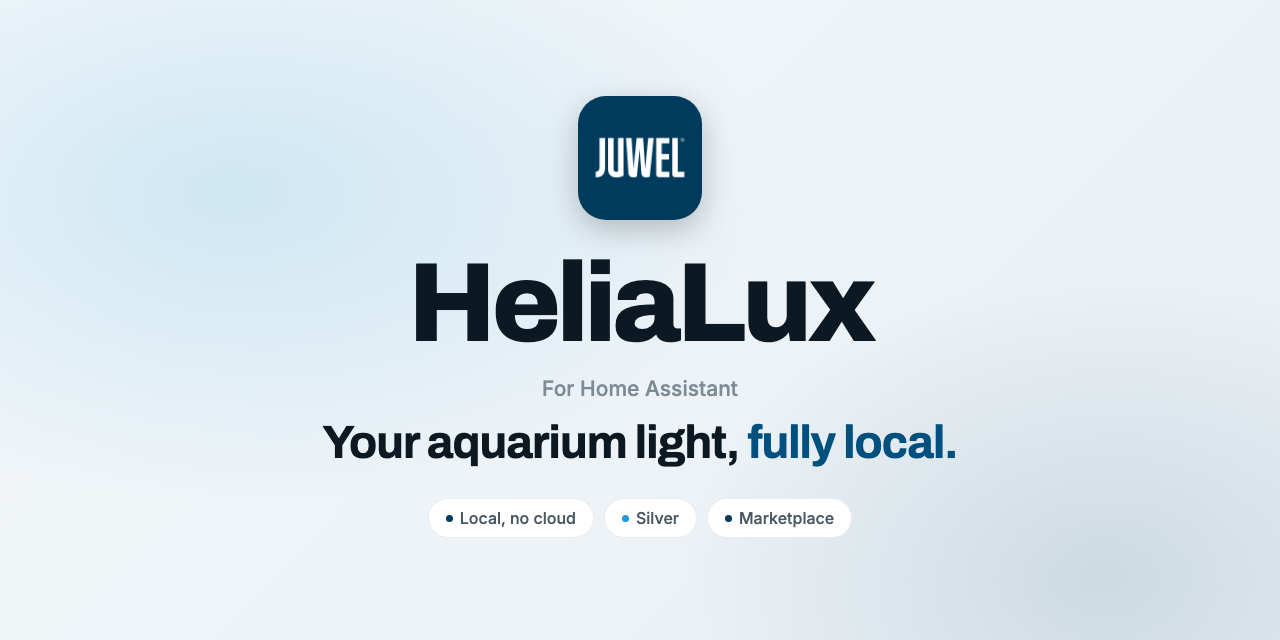
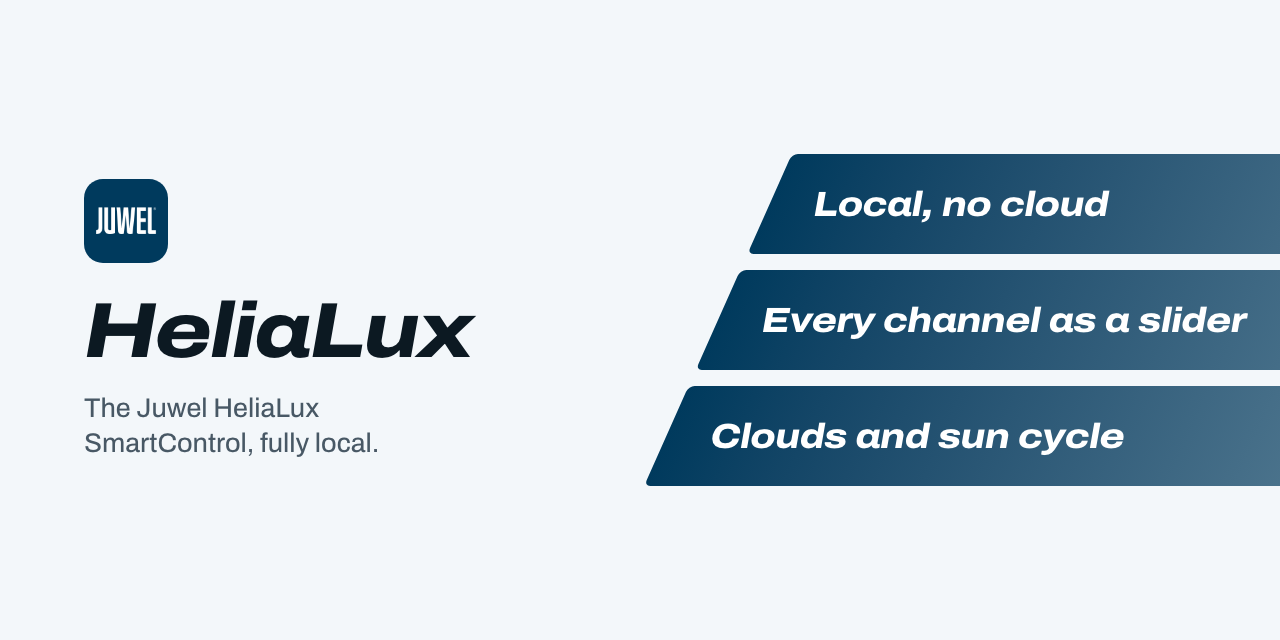
README and project page in the v2 design
Title banner with the lanes, Install and Set up as one Get started, shared
footer. The page loads theme v2 (Archivo from sh1ft-w.github.io), hero left
with the three key facts on the lanes.

Claude-Session: https://claude.ai/code/session_01TLmTtZLAvnS1BJ3w9tzxXq

diff --git a/docs/index.html b/docs/index.html
@@ -13,21 +13,18 @@
 <meta property="og:description" content="Local control for the Juwel HeliaLux SmartControl aquarium light. Robust, complete, no cloud.">
 <meta property="og:image" content="https://sh1ft-w.github.io/helialux/images/readme-title-social.png">
 <link rel="icon" href="logo.png">
-<link rel="preconnect" href="https://fonts.googleapis.com">
-<link rel="preconnect" href="https://fonts.gstatic.com" crossorigin>
-<link href="https://fonts.googleapis.com/css2?family=Archivo:wght@600;700;800;900&family=Inter:wght@400;500;600&family=JetBrains+Mono:wght@400;500&display=swap" rel="stylesheet">
-<!-- Shared SH1FT-W design (tokens, glass navigation, light/dark, DE/EN, reveal) -->
-<link rel="stylesheet" href="https://sh1ft-w.github.io/theme/v1/theme.css">
-<script src="https://sh1ft-w.github.io/theme/v1/theme.js"></script>
+<!-- Shared SH1FT-W design, version 2 (tokens, Archivo, navigation, light/dark, DE/EN, the lanes) -->
+<link rel="stylesheet" href="https://sh1ft-w.github.io/theme/v2/theme.css">
+<script src="https://sh1ft-w.github.io/theme/v2/theme.js"></script>
 <style>
 /* HeliaLux-Palette: kühles Wasserweiß bei Tag, tiefes Becken bei Nacht, Akzent in Juwel-Blau #003a5d */
 :root {
   --accent: #003a5d; --accent-ink: #00507f; --on-accent: #ffffff;
-  --sea: #003a5d; --sea-tint: rgba(0,90,140,0.10); --sea-glow: rgba(0,58,93,0.34); --aqua: #1C9BD6;
+  --sea: #003a5d; --sea-tint: rgba(0,90,140,0.10); --aqua: #1C9BD6;
   --ch-w: #8FA3B1; --ch-b: #2F7FD8; --ch-g: #2FA36A; --ch-r: #E0584A;
-  --font: "Inter", -apple-system, BlinkMacSystemFont, system-ui, sans-serif;
-  --display: "Archivo", "Inter", -apple-system, BlinkMacSystemFont, system-ui, sans-serif;
-  --mono: "JetBrains Mono", ui-monospace, "SF Mono", Menlo, monospace;
+  --font: "Archivo", -apple-system, BlinkMacSystemFont, system-ui, sans-serif;
+  --display: "Archivo", -apple-system, BlinkMacSystemFont, system-ui, sans-serif;
+  --mono: ui-monospace, "SF Mono", Menlo, monospace;
   --bg: #F3F7FA; --bg-2: #E8EFF4; --card: #FFFFFF; --card-2: #F1F5F8;
   --ink: #0C1922; --ink-2: #485865; --ink-3: rgba(12,25,34,0.52);
   --line: rgba(10,40,60,0.11); --chip: rgba(10,50,80,0.06);
@@ -38,7 +35,7 @@
 }
 @media (prefers-color-scheme: dark) { :root:not([data-theme="light"]) {
   --accent: #5DB9E8; --accent-ink: #7CC8EE; --on-accent: #04121B;
-  --sea: #5DB9E8; --sea-tint: rgba(93,185,232,0.14); --sea-glow: rgba(93,185,232,0.30);
+  --sea: #5DB9E8; --sea-tint: rgba(93,185,232,0.14);
   --ch-w: #DCE6EC;
   --bg: #06111A; --bg-2: #0A1822; --card: #0F202C; --card-2: #152A38;
   --ink: #EAF2F7; --ink-2: rgba(214,228,238,0.84); --ink-3: rgba(214,228,238,0.52);
@@ -48,7 +45,7 @@
 } }
 :root[data-theme="dark"] {
   --accent: #5DB9E8; --accent-ink: #7CC8EE; --on-accent: #04121B;
-  --sea: #5DB9E8; --sea-tint: rgba(93,185,232,0.14); --sea-glow: rgba(93,185,232,0.30);
+  --sea: #5DB9E8; --sea-tint: rgba(93,185,232,0.14);
   --ch-w: #DCE6EC;
   --bg: #06111A; --bg-2: #0A1822; --card: #0F202C; --card-2: #152A38;
   --ink: #EAF2F7; --ink-2: rgba(214,228,238,0.84); --ink-3: rgba(214,228,238,0.52);
@@ -74,7 +71,7 @@ code, .k { font-family: var(--mono); font-variant-numeric: tabular-nums; }
 .btn {
   display: inline-flex; align-items: center; justify-content: center; gap: 8px; height: 48px; padding: 0 24px; border-radius: 999px;
   font-family: inherit; font-size: 15px; font-weight: 600; line-height: 1; background: var(--sea); color: var(--on-accent); border: 0; cursor: pointer;
-  box-shadow: 0 12px 28px -12px var(--sea-glow); transition: transform .2s ease, filter .2s ease;
+  transition: transform .2s ease, filter .2s ease;
 }
 .btn:hover { text-decoration: none; filter: brightness(1.1); transform: translateY(-1px); }
 .btn.ghost { background: var(--card); color: var(--ink); box-shadow: var(--shadow); }
@@ -98,9 +95,6 @@ section.tint { background: var(--bg-2); }
 
 /* Hero */
 .hero { padding: clamp(56px, 9vw, 112px) 0 clamp(64px, 8vw, 104px); text-align: center; overflow: hidden; }
-.hero .glow { position: absolute; inset: -20% -10% auto; height: 90%; pointer-events: none;
-  background: radial-gradient(40% 36% at 30% 30%, rgba(28,155,214,0.20), transparent 70%), radial-gradient(36% 34% at 72% 24%, rgba(0,58,93,0.16), transparent 70%);
-  filter: blur(50px); }
 .hero .wrap { position: relative; }
 .hero .lead { max-width: 660px; margin-left: auto; margin-right: auto; }
 .cta { display: flex; flex-wrap: wrap; gap: 12px; justify-content: center; margin-top: 34px; }
@@ -108,9 +102,6 @@ section.tint { background: var(--bg-2); }
 .pill { display: inline-flex; align-items: center; gap: 6px; padding: 5px 12px; border-radius: 999px; background: var(--card); box-shadow: var(--shadow); font-weight: 600; color: var(--ink-2); font-size: 13px; }
 .pill i { width: 7px; height: 7px; border-radius: 50%; background: var(--aqua); display: inline-block; }
 
-/* Bühne: das README-Titelbild */
-.stage { position: relative; margin: clamp(48px, 7vw, 84px) auto 0; max-width: 1100px; }
-.stage .photo { display: block; width: 100%; height: auto; aspect-ratio: 2 / 1; border-radius: var(--radius-lg); box-shadow: var(--shadow-lg); }
 
 /* Bento: Gerade neu */
 .bento { display: grid; grid-template-columns: repeat(12, 1fr); gap: 16px; }
@@ -239,6 +230,39 @@ footer .fine { flex-basis: 100%; line-height: 1.6; }
   .tbl td { border: 0; padding: 2px 0; }
   .tbl td:first-child { white-space: normal; }
 }
+
+/* ---- theme v2 ---- */
+:root { --display: var(--font); --lane-a: #003a5d; --lane-b: #1C9BD6; --radius: 20px; --radius-lg: 28px; --max: 1200px; }
+/* Juwel blue is too dark for the night background: lighter lanes there */
+@media (prefers-color-scheme: dark) { :root:not([data-theme="light"]) { --lane-a: #0A6A9E; --lane-b: #5DB9E8; } }
+:root[data-theme="dark"] { --lane-a: #0A6A9E; --lane-b: #5DB9E8; }
+body { font-family: var(--font); }
+h1 { font-size: clamp(44px, 6vw, 84px); line-height: 1; font-weight: 800; font-stretch: 118%; font-style: italic; letter-spacing: -0.025em; }
+h2 { font-size: clamp(30px, 3.8vw, 48px); line-height: 1.08; font-weight: 750; font-stretch: 112%; letter-spacing: -0.02em; }
+h3 { font-stretch: 106%; }
+h1 em, h2 em { color: inherit !important; font-style: inherit; }
+.center { text-align: left; } .center .lead { margin-left: 0; margin-right: 0; }
+.head { max-width: 50em; }
+.flow { margin: 0; }
+.finale h2 { font-size: clamp(34px, 4.6vw, 60px); }
+.eyebrow { text-transform: none; letter-spacing: 0; font-size: 16px; font-weight: 650; margin-bottom: 12px; }
+.eyebrow::before { display: none; }
+.cap { text-align: left; }
+.btn { border-radius: 12px; box-shadow: none; }
+.btn.ghost { background: var(--chip); box-shadow: none; }
+.pill { box-shadow: none; background: var(--chip); border-radius: 8px; }
+.b, .tile, .panel, .prof, .tbl, .faq details, .flow .lane { box-shadow: none; border: 1px solid var(--line); }
+.b .tag, .tg, .tbl thead th { text-transform: none; letter-spacing: 0; font-size: 13px; }
+.b .tag, .tg, .days > span { border-radius: 6px; }
+.tile .ico { border-radius: 10px; }
+.hero { text-align: left; padding: clamp(48px, 7vw, 96px) 0 clamp(56px, 7vw, 96px); overflow: hidden; }
+.hero .wrap { display: grid; grid-template-columns: minmax(0, 1.15fr) minmax(0, 1fr); gap: clamp(24px, 4vw, 64px); align-items: center; }
+.hero .mark { width: 64px; height: 64px; border-radius: 15px; margin-bottom: 26px; }
+.hero .lead { margin-left: 0; max-width: 34em; }
+.hero .cta, .hero .meta { justify-content: flex-start; }
+.hero .s-lanes { margin: 0 calc(-1 * var(--gutter) - 14vw) 0 clamp(32px, 4vw, 56px); }
+.s-track b { color: #fff; font: italic 800 clamp(20px, 2.5vw, 34px)/1 var(--font); font-stretch: 116%; letter-spacing: -0.015em; white-space: nowrap; }
+@media (max-width: 900px) { .hero .wrap { grid-template-columns: 1fr; } .hero .s-lanes { margin: 8px calc(-1 * var(--gutter) - 8vw) 0 44px; } }
 </style>
 </head>
 <body>
@@ -264,25 +288,24 @@ footer .fine { flex-basis: 100%; line-height: 1.6; }
 </div>
 
 <section class="hero" id="top">
-  <div class="glow" aria-hidden="true"></div>
   <div class="wrap">
-    <p class="eyebrow reveal"><span class="en">Juwel aquarium light in Home Assistant</span><span class="de">Juwel-Aquarienlicht in Home Assistant</span></p>
-    <h1 class="reveal d1"><span class="en">Your aquarium light,<br><em>fully local.</em></span><span class="de">Dein Aquarienlicht,<br><em>ganz lokal.</em></span></h1>
-    <p class="lead reveal d2"><span class="en">HeliaLux talks to the Juwel HeliaLux SmartControl over its own web server: <strong>every channel as a slider, real transitions, profiles, clouds and a sun cycle</strong>, and it keeps the colour Home Assistant set. Robust, complete, no cloud.</span><span class="de">HeliaLux spricht mit der Juwel HeliaLux SmartControl über ihren eigenen Webserver: <strong>jeder Kanal als Schieberegler, echte Übergänge, Profile, Wolken und Sonnenverlauf</strong>, und sie hält die Farbe, die Home Assistant eingestellt hat. Robust, vollständig, ohne Cloud.</span></p>
-    <div class="cta reveal d3">
-      <a class="btn" href="#install"><span class="en">Install from the Marketplace</span><span class="de">Über den Marketplace installieren</span></a>
-      <a class="btn ghost" href="https://github.com/SH1FT-W/helialux#readme"><span class="en">Read the README</span><span class="de">Zur Anleitung</span></a>
+    <div>
+      <img class="mark" src="logo.png" alt="" width="64" height="64">
+      <h1><span class="en">Your aquarium light, fully local.</span><span class="de">Dein Aquarienlicht, ganz lokal.</span></h1>
+      <p class="lead reveal d2"><span class="en">HeliaLux talks to the Juwel HeliaLux SmartControl over its own web server: <strong>every channel as a slider, real transitions, profiles, clouds and a sun cycle</strong>, and it keeps the colour Home Assistant set. Robust, complete, no cloud.</span><span class="de">HeliaLux spricht mit der Juwel HeliaLux SmartControl über ihren eigenen Webserver: <strong>jeder Kanal als Schieberegler, echte Übergänge, Profile, Wolken und Sonnenverlauf</strong>, und sie hält die Farbe, die Home Assistant eingestellt hat. Robust, vollständig, ohne Cloud.</span></p>
+      <div class="cta reveal d3">
+        <a class="btn" href="#install"><span class="en">Install from the Marketplace</span><span class="de">Über den Marketplace installieren</span></a>
+        <a class="btn ghost" href="https://github.com/SH1FT-W/helialux#readme"><span class="en">Read the README</span><span class="de">Zur Anleitung</span></a>
+      </div>
+      <p class="meta reveal d3">
+        <span class="pill"><i></i><span id="hl-version">Version 26.11.3</span></span>
+        <span class="en">Home Assistant 2026.9 or newer &middot; English and German &middot; Apache 2.0</span><span class="de">Home Assistant 2026.9 oder neuer &middot; Deutsch und Englisch &middot; Apache 2.0</span>
+      </p>
     </div>
-    <p class="meta reveal d3">
-      <span class="pill"><i></i><span id="hl-version">Version 26.11.3</span></span>
-      <span class="en">Home Assistant 2026.9 or newer &middot; English and German &middot; Apache 2.0</span><span class="de">Home Assistant 2026.9 oder neuer &middot; Deutsch und Englisch &middot; Apache 2.0</span>
-    </p>
-
-    <div class="stage reveal d3">
-      <picture>
-        <source media="(prefers-color-scheme: dark)" srcset="images/readme-title-dark.webp">
-        <img class="photo" src="images/readme-title-light.webp" width="2560" height="1280" alt="HeliaLux: Your aquarium light, fully local.">
-      </picture>
+    <div class="s-lanes" aria-hidden="true">
+      <div class="s-lane"><div class="s-track"><b><span class="en">Local, no cloud</span><span class="de">Lokal, ohne Cloud</span></b></div></div>
+      <div class="s-lane"><div class="s-track"><b><span class="en">Every channel as a slider</span><span class="de">Jeder Kanal als Regler</span></b></div></div>
+      <div class="s-lane"><div class="s-track"><b><span class="en">Clouds and sun cycle</span><span class="de">Wolken und Sonnenverlauf</span></b></div></div>
     </div>
   </div>
 </section>

diff --git a/README.md b/README.md
@@ -2,14 +2,14 @@
 
 <picture>
   <source media="(prefers-color-scheme: dark)" srcset="docs/images/readme-title-dark.webp" />
-  <img src="docs/images/readme-title-light.webp" alt="HeliaLux: Your aquarium light, fully local." />
+  <img src="docs/images/readme-title-light.webp" alt="HeliaLux: The Juwel HeliaLux SmartControl, fully local. Local, no cloud. Every channel as a slider. Clouds and sun cycle." />
 </picture>
 
 [![Version](https://img.shields.io/badge/dynamic/json?url=https%3A%2F%2Fraw.githubusercontent.com%2FSH1FT-W%2Fhelialux%2Fmain%2Fcustom_components%2Fhelialux%2Fmanifest.json&query=%24.version&label=version&style=flat-square&color=003A5D&labelColor=111111)](https://github.com/SH1FT-W/helialux/releases/latest)
 [![Home Assistant](https://img.shields.io/badge/Home%20Assistant-2026.9%2B-003A5D?style=flat-square&labelColor=111111&logo=homeassistant&logoColor=white)](https://www.home-assistant.io)
 [![Marketplace](https://img.shields.io/badge/Marketplace-default-003A5D?style=flat-square&labelColor=111111)](https://hacs.xyz)
 
-<a href="https://sh1ft-w.github.io/helialux"><b>Website</b></a>&emsp;<a href="#install">Install</a>&emsp;<a href="#set-up">Set up</a>&emsp;<a href="#entities">Entities</a>&emsp;<a href="#moving-over">Moving over</a>&emsp;<a href="CHANGELOG.md">Changelog</a>
+<a href="https://sh1ft-w.github.io/helialux"><b>Website</b></a>&emsp;<a href="#get-started">Get started</a>&emsp;<a href="#entities">Entities</a>&emsp;<a href="#moving-over">Moving over</a>&emsp;<a href="CHANGELOG.md">Changelog</a>
 
 </div>
 
@@ -19,7 +19,7 @@ Your Juwel aquarium light in Home Assistant: **every channel as a slider, real t
 
 It needs a **HeliaLux SmartControl**; Juwel lamps without it have no web server and do not work. HeliaLux has its own domain `helialux` and runs next to [MrSleeps' Juwel HeliaLux integration](https://github.com/MrSleeps/Juwel-HeliaLux-Home-Assistant-Custom-Component). Nothing is taken over automatically, [moving over](#moving-over) keeps your entity IDs and history.
 
-## What runs on the lamp
+## What you get
 
 The lamp plays its own profile. Home Assistant writes that profile, or takes over with a manual colour.
 
@@ -33,12 +33,19 @@ The lamp plays its own profile. Home Assistant writes that profile, or takes ove
 
 **New in 26.11:** its own domain next to MrSleeps' integration, and the lamp is discovered on the network and follows a new IP address by itself. Every change is in the [changelog](CHANGELOG.md).
 
-<a id="install"></a>
-## Install
+<a id="get-started"></a><a id="install"></a><a id="set-up"></a>
+## Get started
 
 [![Open in the Marketplace](https://my.home-assistant.io/badges/hacs_repository.svg)](https://my.home-assistant.io/redirect/hacs_repository/?owner=SH1FT-W&repository=helialux&category=integration)
 
-Search for **Juwel HeliaLux** under **Settings > Marketplace** (called HACS before Home Assistant 2026.11), pick the one **by SH1FT-W**, download it and restart Home Assistant.
+Before you start, reserve a fixed IP address for the lamp in your router and let it reach its time server (`ptbtime1.ptb.de`, UDP 123 outwards). Without the time, the profile runs at the wrong hour.
+
+1. **Install it.** Search for **Juwel HeliaLux** under **Settings > Marketplace** (called HACS before Home Assistant 2026.11), pick the one **by SH1FT-W**, download it and restart Home Assistant.
+2. **Add the lamp.** It usually shows up under **Settings > Devices & services > Discovered**, recognised by its MAC address. If not, choose **Add integration > Juwel HeliaLux** and enter its IP address (protocol `http` by default, or `https`).
+3. **Name the aquarium.** The name sets the device and the entity IDs: `Trigon 190` gives `light.trigon_190_light`. Moving over? Use the same name as before.
+4. **Options, if you like.** Under **three dots > Configure**: poll every 5 to 300 seconds (default 15), and the weather entity for clouds from weather.
+
+A new IP address is picked up by itself when Home Assistant sees the lamp's DHCP requests (same network), or after the next restart through a router integration such as UniFi. Otherwise use **three dots > Reconfigure**. One lamp per entry.
 
 <details>
 <summary>Install by hand</summary>
@@ -47,17 +54,6 @@ Search for **Juwel HeliaLux** under **Settings > Marketplace** (called HACS befo
 2. Copy `custom_components/helialux` into `/config/custom_components/` and restart Home Assistant.
 
 </details>
-
-<a id="set-up"></a>
-## Set up
-
-Before you start, reserve a fixed IP address for the lamp in your router and let it reach its time server (`ptbtime1.ptb.de`, UDP 123 outwards). Without the time, the profile runs at the wrong hour.
-
-1. **Add the lamp.** It usually shows up under **Settings > Devices & services > Discovered**, recognised by its MAC address. If not, choose **Add integration > Juwel HeliaLux** and enter its IP address (protocol `http` by default, or `https`).
-2. **Name the aquarium.** The name sets the device and the entity IDs: `Trigon 190` gives `light.trigon_190_light`. Moving over? Use the same name as before.
-3. **Options, if you like.** Under **three dots > Configure**: poll every 5 to 300 seconds (default 15), and the weather entity for clouds from weather.
-
-A new IP address is picked up by itself when Home Assistant sees the lamp's DHCP requests (same network), or after the next restart through a router integration such as UniFi. Otherwise use **three dots > Reconfigure**. One lamp per entry.
 
 <a id="entities"></a>
 ## Entities
@@ -239,3 +235,11 @@ Test requirements: `pip install -r requirements_test.txt`. The fake lamp answers
 [Apache License 2.0](LICENSE), Copyright 2026 SH1FT-W. Acknowledgements in [`NOTICE`](NOTICE).
 
 <sub>HeliaLux is an independent project, not affiliated with, endorsed or sponsored by Juwel Aquarium AG & Co. KG. Juwel and HeliaLux are trademarks of Juwel Aquarium AG & Co. KG.</sub>
+
+<br/>
+
+<div align="center">
+<a href="https://sh1ft-w.github.io"><img src="https://sh1ft-w.github.io/readme/footer.png" width="640" alt="All SH1FT-W projects"></a>
+<br/>
+<sub>More open source for Home Assistant and the Mac at <a href="https://sh1ft-w.github.io">sh1ft-w.github.io</a></sub>
+</div>
